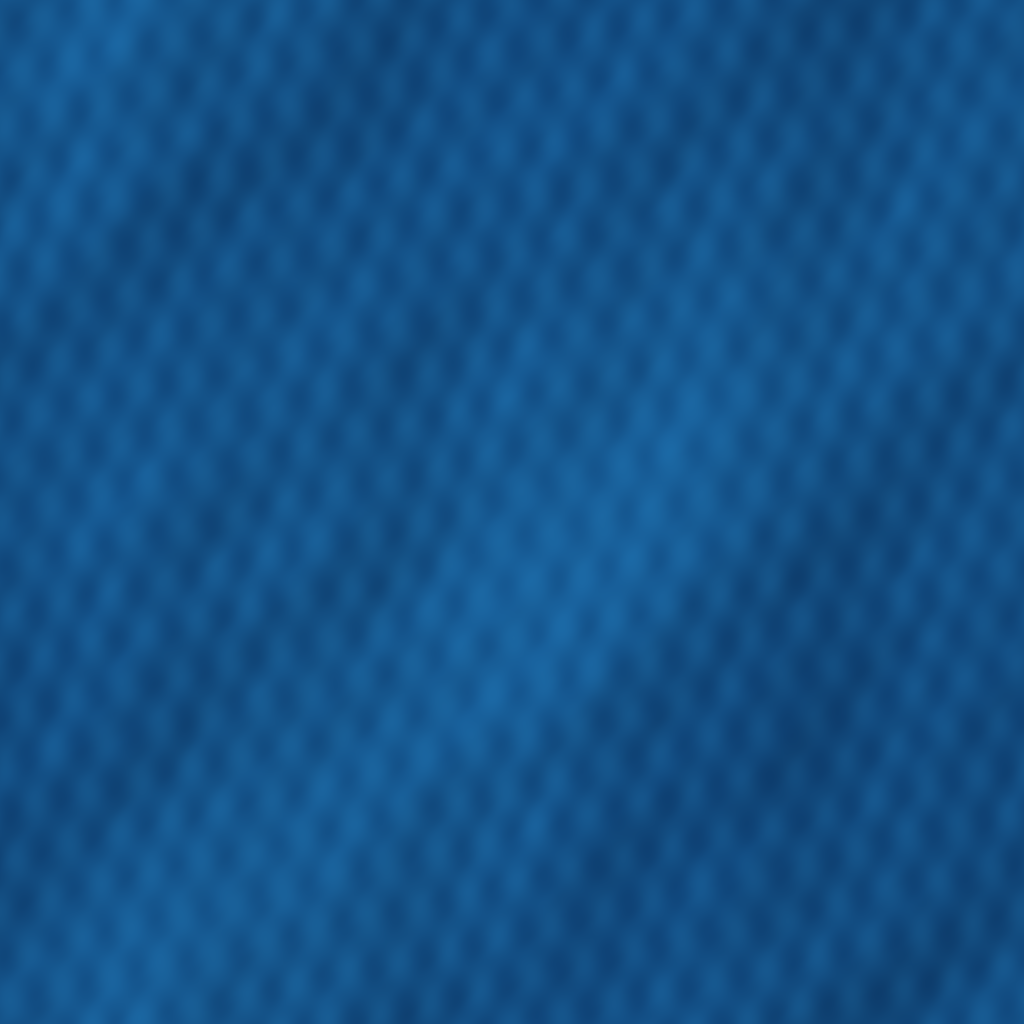
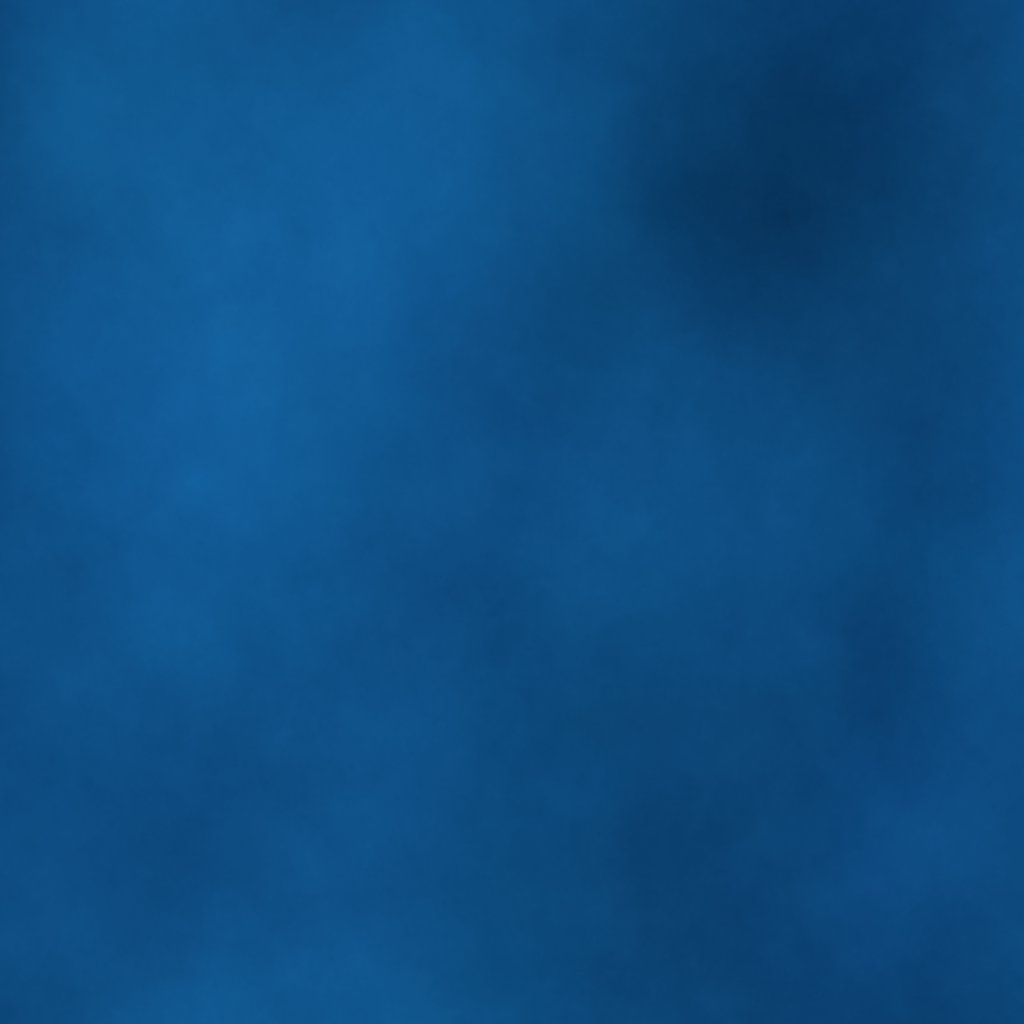
x

diff --git a/src/game/scenes/scene-game.cpp b/src/game/scenes/scene-game.cpp
@@ -35,12 +35,20 @@ void GameScene::load(void)
         RC2D_log(RC2D_LOG_ERROR, "GameScene: failed to load ocean texture assets/images/tile-water-base.png");
         return;
     }
+    if (!SDL_SetTextureScaleMode(oceanTexture.sdl_texture, SDL_SCALEMODE_LINEAR))
+    {
+        RC2D_log(RC2D_LOG_WARN, "GameScene: failed to set scale mode for tile-water-base: %s", SDL_GetError());
+    }
 
     oceanTextureDetail = rc2d_graphics_loadImageFromStorage("assets/images/tile-water-detail.png", RC2D_STORAGE_TITLE);
     if (oceanTextureDetail.sdl_texture == nullptr)
     {
         RC2D_log(RC2D_LOG_ERROR, "GameScene: failed to load ocean detail texture assets/images/tile-water-detail.png");
         return;
+    }
+    if (!SDL_SetTextureScaleMode(oceanTextureDetail.sdl_texture, SDL_SCALEMODE_LINEAR))
+    {
+        RC2D_log(RC2D_LOG_WARN, "GameScene: failed to set scale mode for tile-water-detail: %s", SDL_GetError());
     }
 
     causticTexture = rc2d_graphics_loadImageFromStorage("assets/images/tile-caustic.png", RC2D_STORAGE_TITLE);
@@ -49,6 +57,10 @@ void GameScene::load(void)
         RC2D_log(RC2D_LOG_ERROR, "GameScene: failed to load caustic texture assets/images/tile-caustic.png");
         return;
     }
+    if (!SDL_SetTextureScaleMode(causticTexture.sdl_texture, SDL_SCALEMODE_LINEAR))
+    {
+        RC2D_log(RC2D_LOG_WARN, "GameScene: failed to set scale mode for tile-caustic: %s", SDL_GetError());
+    }
 
     foamStreaksTexture = rc2d_graphics_loadImageFromStorage("assets/images/tile-foam-streaks.png", RC2D_STORAGE_TITLE);
     if (foamStreaksTexture.sdl_texture == nullptr)
@@ -56,12 +68,20 @@ void GameScene::load(void)
         RC2D_log(RC2D_LOG_ERROR, "GameScene: failed to load foam streak texture assets/images/tile-foam-streaks.png");
         return;
     }
+    if (!SDL_SetTextureScaleMode(foamStreaksTexture.sdl_texture, SDL_SCALEMODE_LINEAR))
+    {
+        RC2D_log(RC2D_LOG_WARN, "GameScene: failed to set scale mode for tile-foam-streaks: %s", SDL_GetError());
+    }
 
     macroWaterTexture = rc2d_graphics_loadImageFromStorage("assets/images/water-macro.png", RC2D_STORAGE_TITLE);
     if (macroWaterTexture.sdl_texture == nullptr)
     {
         RC2D_log(RC2D_LOG_ERROR, "GameScene: failed to load macro water texture assets/images/water-macro.png");
         return;
+    }
+    if (!SDL_SetTextureScaleMode(macroWaterTexture.sdl_texture, SDL_SCALEMODE_LINEAR))
+    {
+        RC2D_log(RC2D_LOG_WARN, "GameScene: failed to set scale mode for water-macro: %s", SDL_GetError());
     }
 
     oceanFragmentShader = rc2d_gpu_loadGraphicsShaderFromStorage("water.fragment", RC2D_STORAGE_TITLE);
@@ -207,15 +227,26 @@ void GameScene::draw(void)
 
     SDL_FRect visibleRect = rc2d_engine_getVisibleSafeRectRender();
 
+    SDL_TextureAddressMode prevU = SDL_TEXTURE_ADDRESS_AUTO;
+    SDL_TextureAddressMode prevV = SDL_TEXTURE_ADDRESS_AUTO;
+    bool restoreAddressMode = SDL_GetRenderTextureAddressMode(rc2d_engine_state.renderer, &prevU, &prevV);
+    SDL_SetRenderTextureAddressMode(rc2d_engine_state.renderer, SDL_TEXTURE_ADDRESS_WRAP, SDL_TEXTURE_ADDRESS_WRAP);
+
     if (oceanRenderState != nullptr)
     {
         SDL_SetGPURenderState(rc2d_engine_state.renderer, oceanRenderState);
         SDL_RenderTexture(rc2d_engine_state.renderer, oceanTexture.sdl_texture, nullptr, &visibleRect);
         SDL_SetGPURenderState(rc2d_engine_state.renderer, nullptr);
-        return;
+    }
+    else
+    {
+        SDL_RenderTexture(rc2d_engine_state.renderer, oceanTexture.sdl_texture, nullptr, &visibleRect);
     }
 
-    SDL_RenderTexture(rc2d_engine_state.renderer, oceanTexture.sdl_texture, nullptr, &visibleRect);
+    if (restoreAddressMode)
+    {
+        SDL_SetRenderTextureAddressMode(rc2d_engine_state.renderer, prevU, prevV);
+    }
 }
 
 void GameScene::keypressed(
@@ -297,14 +328,14 @@ void GameScene::resetOceanUniforms(void)
     oceanTimeSeconds = 0.0;
 
     oceanUniforms.params0[0] = 0.0f;   // time
-    oceanUniforms.params0[1] = 0.58f;  // waveStrength
-    oceanUniforms.params0[2] = 2.8f;   // pixelAmplitude
-    oceanUniforms.params0[3] = 3.4f;   // tiling
+    oceanUniforms.params0[1] = 0.74f;  // waveStrength
+    oceanUniforms.params0[2] = 3.6f;   // pixelAmplitude
+    oceanUniforms.params0[3] = 2.35f;  // tiling
 
     oceanUniforms.params1[0] = 1920.0f; // width
     oceanUniforms.params1[1] = 1080.0f; // height
-    oceanUniforms.params1[2] = 0.28f;   // speed
-    oceanUniforms.params1[3] = 0.48f;   // foamIntensity
+    oceanUniforms.params1[2] = 0.62f;   // speed
+    oceanUniforms.params1[3] = 0.36f;   // foamIntensity
 }
 
 bool GameScene::uploadOceanUniforms(void)
